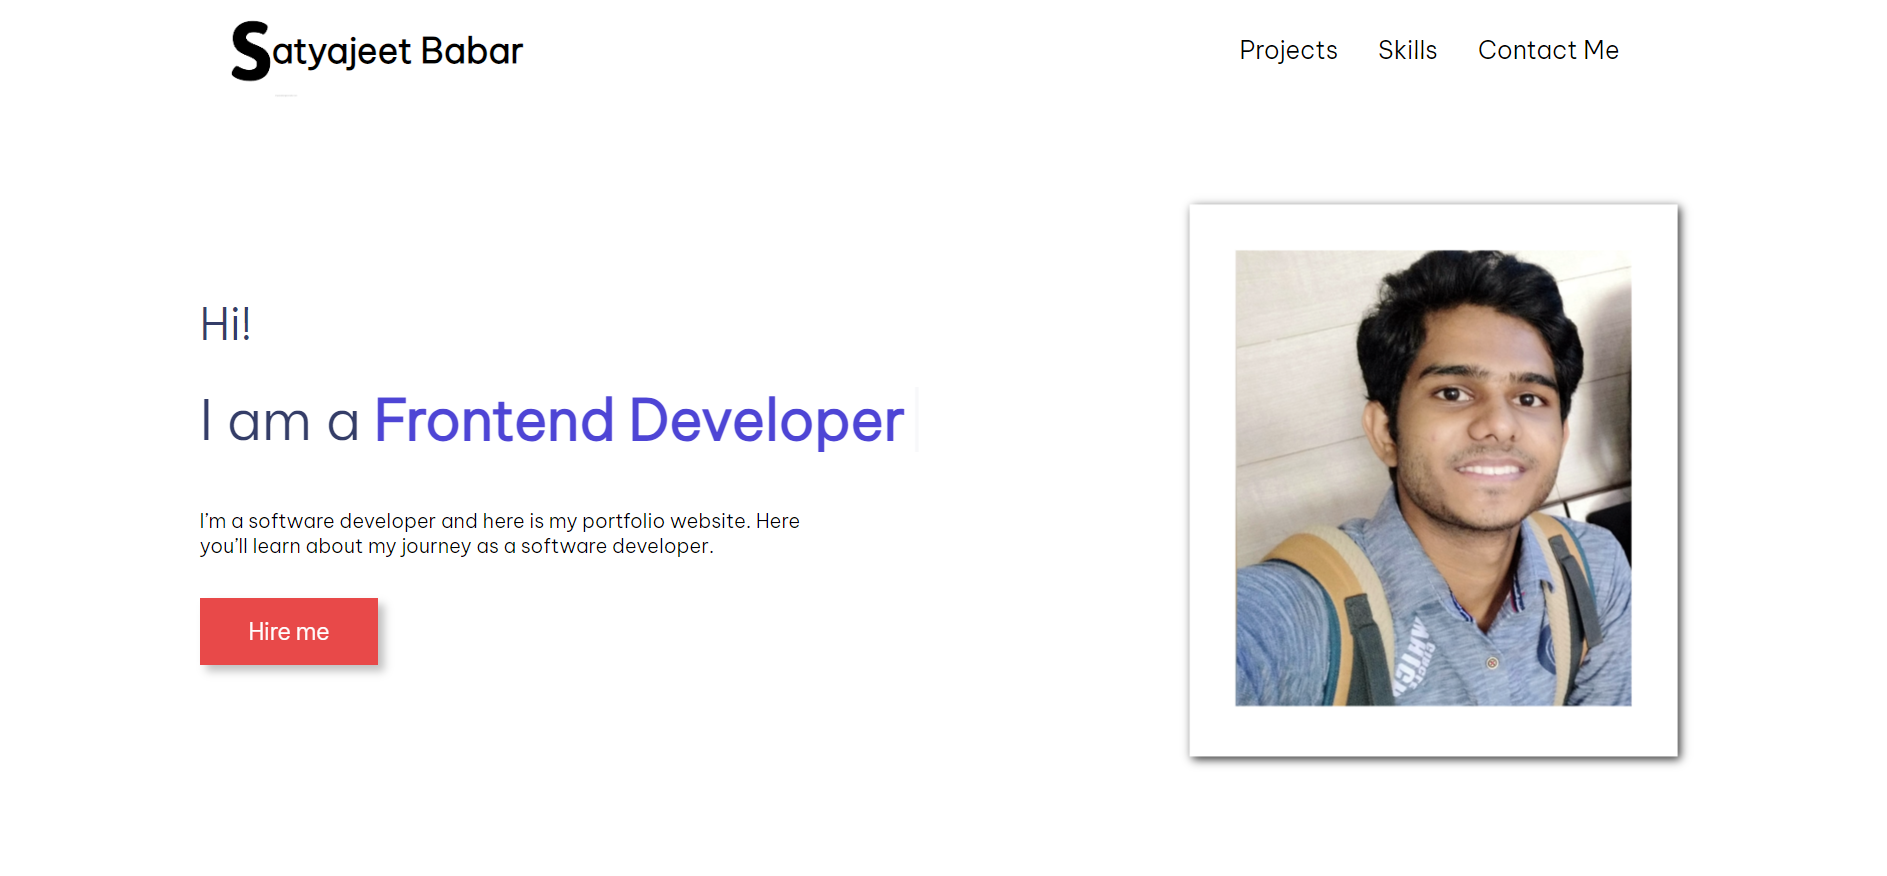
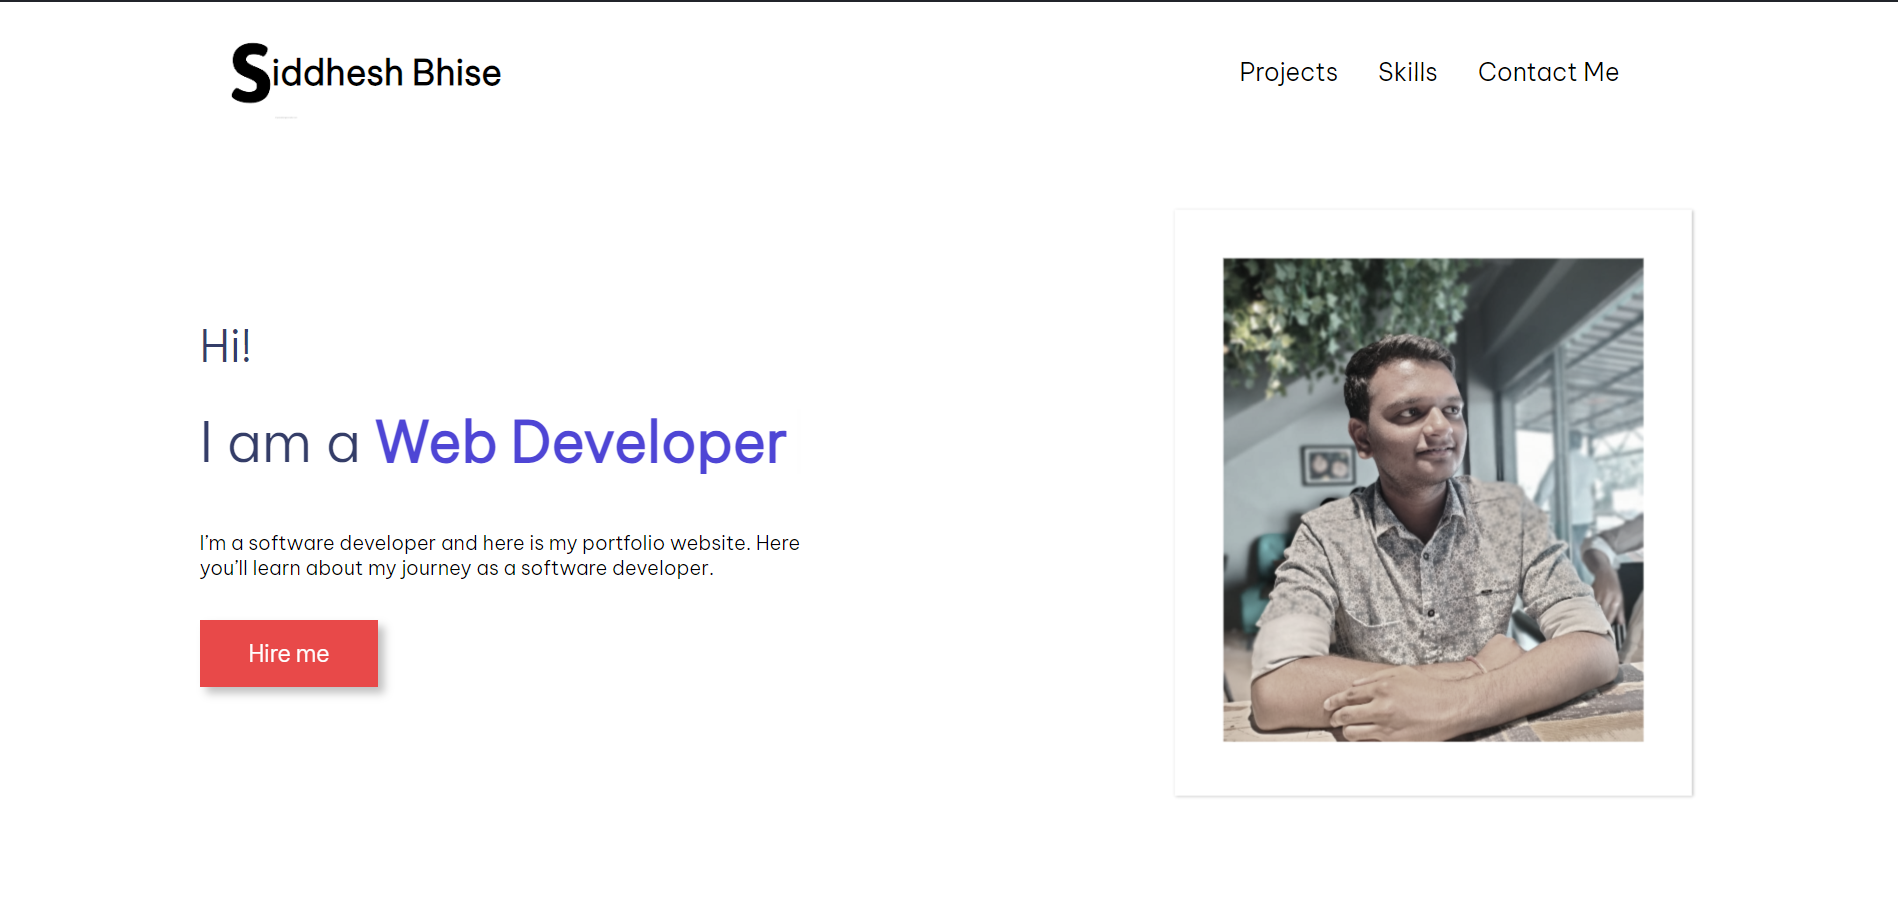
task-3 complete

diff --git a/index.html b/index.html
@@ -11,7 +11,7 @@
   <nav class="navbar container">
     <div class="logo-group">
       <img class="nav-logo" src="./images/userAsset/S1.png" alt="" />
-      <h2 class="nav-logo-text">atyajeet Babar</h2>
+      <h2 class="nav-logo-text">iddhesh Bhise</h2>
     </div>
 
     <div class="nav-items">
@@ -22,7 +22,7 @@
   </nav>
 
   <div class="hero-section container">
-    <div class="absolute faded-text">Satyajeet Babar</div>
+    <div class="absolute faded-text">Siddhesh Bhise</div>
 
     <div class="hero-section-left">
       <div class="hero-section-heading">Hi!</div>
@@ -64,7 +64,7 @@
           </p>
           <div class="btn-group">
             <button class="btn-pink btn-project">Read More</button>
-            <a href="https://github.com/SatyajeetBabar" target="_blank">
+            <a href="https://github.com/SatyajeetBabar/Weather-App" target="_blank">
               <i title="GitHubLink" class="fa-brands fa-github icon"></i>
             </a>
             <a href="https://weather-app-satyajeet.netlify.app/" target="_blank">
@@ -111,7 +111,7 @@
       </h2>
       <div class="skill-subHeading">
         <p>
-          Hi everyone my name is Satyajeet Babar. I'm a 3rd year student of Computer Science at SPPU
+          Hi everyone my name is Siddhesh Bhise. I'm a 3rd year student of Computer Science at SPPU
         <p>
          Here's my Tech Stack
         </p>
@@ -165,7 +165,7 @@
 
   <footer>
     <div class="container footer-wrapper">
-      <div class="footer-faded-text">Satyajeet Babar</div>
+      <div class="footer-faded-text">Siddhesh Bhise</div>
       <div class="link-wrapper">
         <div>
           <a href="#projects">Projects</a>
@@ -179,13 +179,13 @@
       </div>
 
       <div class="icon-wrapper">
-        <a href="https://www.linkedin.com/in/satyajeet-babar-594b99259?utm_source=share&utm_campaign=share_via&utm_content=profile&utm_medium=android_app" target="_blank">
+        <a href="https://www.linkedin.com/in/siddhesh-bhise-8635a0230/" target="_blank">
           <i class="fa-brands fa-linkedin icon"></i>
       </a>
-      <a href="https://github.com/SatyajeetBabar" target="_blank">
+      <a href="https://github.com/Siddhesh-Mavrick" target="_blank">
         <i class="fa-brands fa-github icon"></i>
       </a>
-      <a href="https://x.com/satyajeetbabar7?t=vR5XbJE0O6OLBqAU6YzZpA&s=08" target="_blank">
+      <a href="https://twitter.com/SiddheshBhise3" target="_blank">
         <i class="fa-brands fa-twitter icon"></i>
       </a>
         <!-- <i class="fa-regular fa-envelope icon"></i> -->

diff --git a/style.css b/style.css
@@ -1,19 +1,24 @@
 @import url("https://fonts.googleapis.com/css2?family=Be+Vietnam+Pro:wght@300&display=swap");
+
 :root {
   --bgOrange: #e84949;
 }
+
 body {
   overflow-x: hidden;
 }
+
 * {
   margin: 0;
   padding: 0;
   font-family: "Be Vietnam Pro", sans-serif;
   scroll-behavior: smooth;
 }
+
 a{
   text-decoration: none;
 }
+
 .container {
   max-width: 1200px;
   margin: 0 auto;
@@ -204,6 +209,47 @@ a{
     transform: translateY(0px);
   }
 }
+
+
+
+
+
+
+
+
+
+
+
+
+
+
+
+
+
+
+
+
+
+
+
+
+
+
+
+
+
+
+
+
+
+
+
+
+
+
+
+
+
 
 .icon-cube {
   top: -0.8em;
